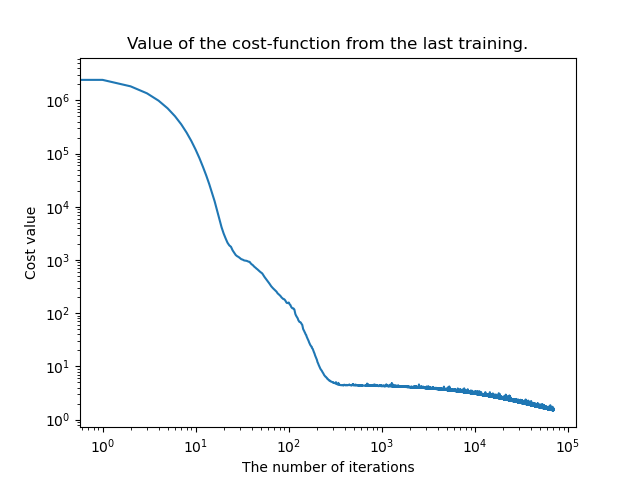
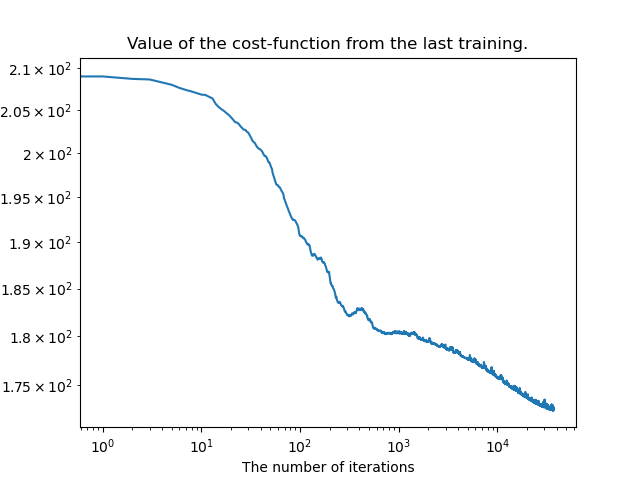
working test and dataset

diff --git a/project3/code/test_project_3.py b/project3/code/test_project_3.py
@@ -30,13 +30,13 @@ import numpy as np
 import gradient_descent
 import helper
 import seaborn as sns
-from tensorflow.keras.layers import Input
-from tensorflow.keras.models import Sequential
-from tensorflow.keras.layers import Dense
-from tensorflow.keras import optimizers
-from tensorflow.keras import regularizers
-from tensorflow.keras.utils import to_categorical
-import tensorflow as tf
+# from tensorflow.keras.layers import Input
+# from tensorflow.keras.models import Sequential
+# from tensorflow.keras.layers import Dense
+# from tensorflow.keras import optimizers
+# from tensorflow.keras import regularizers
+# from tensorflow.keras.utils import to_categorical
+# import tensorflow as tf
 
 
 """
@@ -644,35 +644,35 @@ METHOD: NN Keras
 
 Tensorflow Keras
 """
-test12 = True
-if test12:
-    print(">> RUNNING TEST 11 <<")
-    # Loading the training and testing dataset
-    n_components = 8
+# test12 = True
+# if test12:
+#     print(">> RUNNING TEST 11 <<")
+#     # Loading the training and testing dataset
+#     n_components = 8
 
-    X_train, X_test, y_train, y_test = helper.load_housing_data(n_components)
-    # y_train = to_categorical(y_train)
-    # y_test = to_categorical(y_test)
+#     X_train, X_test, y_train, y_test = helper.load_housing_data(n_components)
+#     # y_train = to_categorical(y_train)
+#     # y_test = to_categorical(y_test)
 
-    model = Sequential()
-    model.add(Dense(20, activation="sigmoid", input_dim=n_components))
-    model.add(Dense(20, activation="sigmoid"))
-    # model.add(Dense(64, activation="relu"))
-    model.add(Dense(1))
-    sgd = optimizers.SGD(learning_rate=1e-5, momentum=0.7)
+#     model = Sequential()
+#     model.add(Dense(20, activation="sigmoid", input_dim=n_components))
+#     model.add(Dense(20, activation="sigmoid"))
+#     # model.add(Dense(64, activation="relu"))
+#     model.add(Dense(1))
+#     sgd = optimizers.SGD(learning_rate=1e-5, momentum=0.7)
 
-    model.compile(loss='mse',
-                  optimizer=sgd,
-                  metrics=[tf.keras.metrics.MeanSquaredError()])
+#     model.compile(loss='mse',
+#                   optimizer=sgd,
+#                   metrics=[tf.keras.metrics.MeanSquaredError()])
 
-    model.fit(X_train, y_train,
-              epochs=1000,
-              batch_size=100)
+#     model.fit(X_train, y_train,
+#               epochs=1000,
+#               batch_size=100)
 
-    train_scores = model.evaluate(X_train, y_train, batch_size=100)
-    test_scores = model.evaluate(X_test, y_test, batch_size=100)
-    print(f"\nAccuracy for training: {train_scores[1]}")
-    print(f"Accuracy for testing: {test_scores[1]}")
+#     train_scores = model.evaluate(X_train, y_train, batch_size=100)
+#     test_scores = model.evaluate(X_test, y_test, batch_size=100)
+#     print(f"\nAccuracy for training: {train_scores[1]}")
+#     print(f"Accuracy for testing: {test_scores[1]}")
 
 """
 TEST 13:
@@ -841,16 +841,16 @@ METHOD: Neural Network
 Testing NN for housing data
 """
 
-test16 = False
+test16 = True
 if test16:
     print('>> RUNNING TEST 16:')
     # Loading the training and testing dataset
-    n_components = 2
+    n_components = 8
     X_train, X_test, y_train, y_test = helper.load_housing_california_data(
-        n_components, 100)
+        n_components, 500, show_explained_ratio=True)
 
     # Setting the architecture of the Neural Network
-    node_list = [5]
+    node_list = [10]*4
 
     # Initializing the Neural Network
     FFNN = Neural_Network(
@@ -861,15 +861,16 @@ if test16:
 
     # Setting the preffered Stochastic Gradient Descent parameters
     FFNN.set_SGD_values(
-        n_epochs=1000,
-        batch_size=5,
-        gamma=0.4,
+        n_epochs=2000,
+        batch_size=10,
+        gamma=0.5,
         eta=1e-3,
-        lmbda=0)
+        lmbda=0
+    )
 
     # Setting the preffered cost- and activation functions
     FFNN.set_cost_function(MSE)
-    FFNN.set_activation_function_hidden_layers('sigmoid')
+    FFNN.set_activation_function_hidden_layers('RELU')
 
     FFNN.train_model(X_train, y_train, keep_cost_values=True)
     FFNN.plot_cost_of_last_training()
